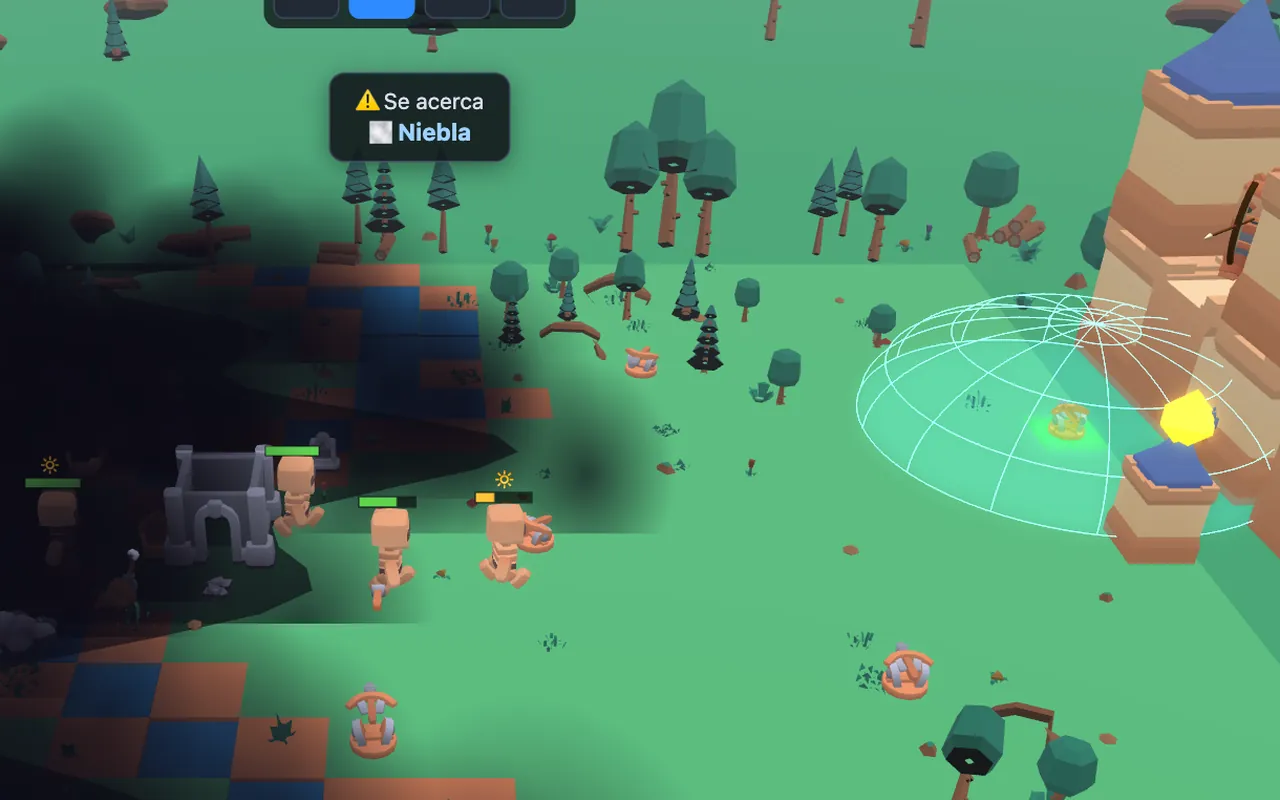
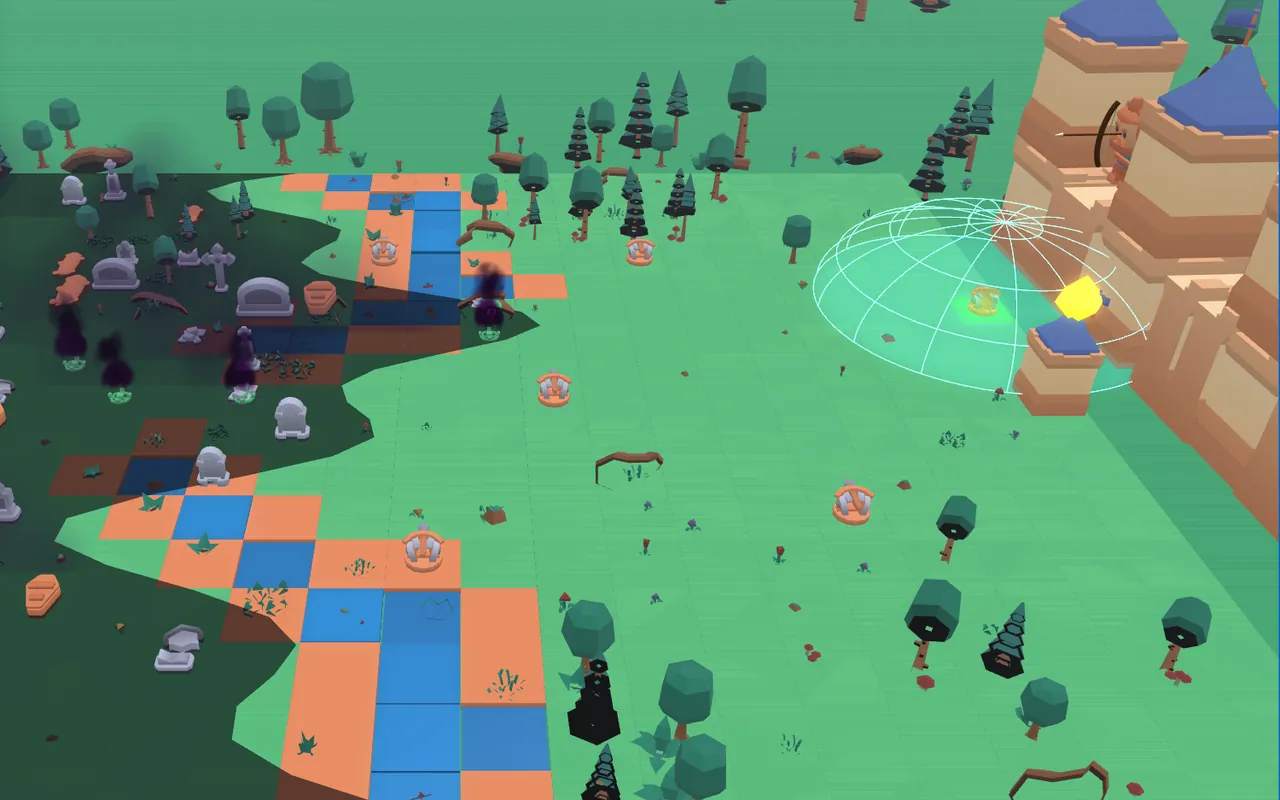
Actualiza la captura de Mazing sin la mancha negra de la bruma

diff --git a/projects.html b/projects.html
@@ -172,7 +172,7 @@
                         <article class="va-proj va-proj-third">
                             <div class="va-proj-media">
                                 <span class="va-proj-badge live">Jugable</span>
-                                <img src="images/towerdefender.webp" alt="Partida de Mazing: enemigos avanzando hacia el castillo entre torres" loading="lazy" width="1280" height="800">
+                                <img src="images/towerdefender.webp" alt="Partida de Mazing: torres junto al camino entre el cementerio enemigo y el castillo" loading="lazy" width="1280" height="800">
                             </div>
                             <div class="va-proj-body">
                                 <div class="va-proj-meta"><span>2026</span><span>Juego 3D</span></div>

diff --git a/index.html b/index.html
@@ -202,7 +202,7 @@
                     <article class="va-proj va-proj-half">
                         <div class="va-proj-media">
                             <span class="va-proj-badge live">Jugable</span>
-                            <img src="images/towerdefender.webp" alt="Partida de Mazing: enemigos avanzando hacia el castillo entre torres" loading="lazy" width="1280" height="800">
+                            <img src="images/towerdefender.webp" alt="Partida de Mazing: torres junto al camino entre el cementerio enemigo y el castillo" loading="lazy" width="1280" height="800">
                         </div>
                         <div class="va-proj-body">
                             <div class="va-proj-meta"><span>2026</span><span>Juego 3D</span></div>
